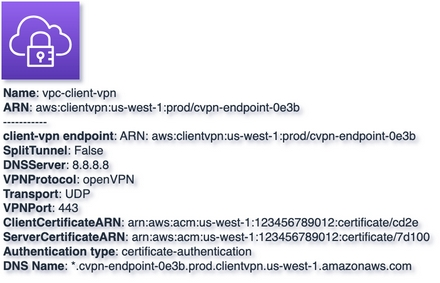
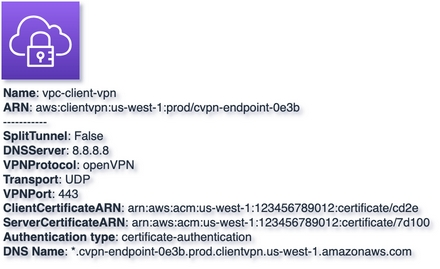
refactor: updated client vpn

Changed region(s): [[0.0, 0.0297, 0.975, 0.9814]]

diff --git a/tests/aws/test_client_vpn.py b/tests/aws/test_client_vpn.py
@@ -15,7 +15,6 @@ class TestAWSVertexInIsolation(TestRendering):
         vpn_arn = 'aws:clientvpn:us-west-1:prod/cvpn-endpoint-0e3b'
         vpn_name = 'vpc-client-vpn'
         metadata = {
-            'client-vpn endpoint': 'ARN: aws:clientvpn:us-west-1:prod/cvpn-endpoint-0e3b',
             'SplitTunnel': False,
             'DNSServer': '8.8.8.8',
             'VPNProtocol': 'openVPN',
@@ -33,9 +32,7 @@ class TestAWSVertexInIsolation(TestRendering):
                     'parent': '1',
                     'style': 'sketch=0;outlineConnect=0;fontColor=#232F3E;gradientColor=#945DF2;gradientDirection=north;fillColor=#5A30B5;strokeColor=#ffffff;dashed=0;verticalLabelPosition=bottom;verticalAlign=top;align=left;html=1;fontSize=12;fontStyle=0;aspect=fixed;shape=mxgraph.aws4.resourceIcon;resIcon=mxgraph.aws4.client_vpn;',
                     'value': '<b>Name</b>: vpc-client-vpn<BR><b>ARN</b>: '
-                             'aws:clientvpn:us-west-1:prod/cvpn-endpoint-0e3b<BR>-----------<BR><b>client-vpn '
-                             'endpoint</b>: ARN: '
-                             'aws:clientvpn:us-west-1:prod/cvpn-endpoint-0e3b<BR><b>SplitTunnel</b>: '
+                             'aws:clientvpn:us-west-1:prod/cvpn-endpoint-0e3b<BR>-----------<BR><b>SplitTunnel</b>: '
                              'False<BR><b>DNSServer</b>: 8.8.8.8<BR><b>VPNProtocol</b>: '
                              'openVPN<BR><b>Transport</b>: UDP<BR><b>VPNPort</b>: '
                              '443<BR><b>ClientCertificateARN</b>: '

diff --git a/docs/docs/aws-components/client_vpn.md b/docs/docs/aws-components/client_vpn.md
@@ -84,7 +84,7 @@ style="sketch=0;outlineConnect=0;fontColor=#232F3E;gradientColor=#945DF2;gradien
             <root>
                 <mxCell id="0"/>
                 <mxCell id="1" parent="0"/>
-                <mxCell id="vertex:client_vpn:aws:clientvpn:us-west-1:prod/cvpn-endpoint-0e3b" value="&lt;b&gt;Name&lt;/b&gt;: vpc-client-vpn&lt;BR&gt;&lt;b&gt;ARN&lt;/b&gt;: aws:clientvpn:us-west-1:prod/cvpn-endpoint-0e3b&lt;BR&gt;-----------&lt;BR&gt;&lt;b&gt;client-vpn endpoint&lt;/b&gt;: ARN: aws:clientvpn:us-west-1:prod/cvpn-endpoint-0e3b&lt;BR&gt;&lt;b&gt;SplitTunnel&lt;/b&gt;: False&lt;BR&gt;&lt;b&gt;DNSServer&lt;/b&gt;: 8.8.8.8&lt;BR&gt;&lt;b&gt;VPNProtocol&lt;/b&gt;: openVPN&lt;BR&gt;&lt;b&gt;Transport&lt;/b&gt;: UDP&lt;BR&gt;&lt;b&gt;VPNPort&lt;/b&gt;: 443&lt;BR&gt;&lt;b&gt;ClientCertificateARN&lt;/b&gt;: arn:aws:acm:us-west-1:123456789012:certificate/cd2e&lt;BR&gt;&lt;b&gt;ServerCertificateARN&lt;/b&gt;: arn:aws:acm:us-west-1:123456789012:certificate/7d100&lt;BR&gt;&lt;b&gt;Authentication type&lt;/b&gt;: certificate-authentication&lt;BR&gt;&lt;b&gt;DNS Name&lt;/b&gt;: *.cvpn-endpoint-0e3b.prod.clientvpn.us-west-1.amazonaws.com" style="sketch=0;outlineConnect=0;fontColor=#232F3E;gradientColor=#945DF2;gradientDirection=north;fillColor=#5A30B5;strokeColor=#ffffff;dashed=0;verticalLabelPosition=bottom;verticalAlign=top;align=left;html=1;fontSize=12;fontStyle=0;aspect=fixed;shape=mxgraph.aws4.resourceIcon;resIcon=mxgraph.aws4.client_vpn;" parent="1" vertex="1">
+                <mxCell id="vertex:client_vpn:aws:clientvpn:us-west-1:prod/cvpn-endpoint-0e3b" value="&lt;b&gt;Name&lt;/b&gt;: vpc-client-vpn&lt;BR&gt;&lt;b&gt;ARN&lt;/b&gt;: aws:clientvpn:us-west-1:prod/cvpn-endpoint-0e3b&lt;BR&gt;-----------&lt;BR&gt;&lt;b&gt;SplitTunnel&lt;/b&gt;: False&lt;BR&gt;&lt;b&gt;DNSServer&lt;/b&gt;: 8.8.8.8&lt;BR&gt;&lt;b&gt;VPNProtocol&lt;/b&gt;: openVPN&lt;BR&gt;&lt;b&gt;Transport&lt;/b&gt;: UDP&lt;BR&gt;&lt;b&gt;VPNPort&lt;/b&gt;: 443&lt;BR&gt;&lt;b&gt;ClientCertificateARN&lt;/b&gt;: arn:aws:acm:us-west-1:123456789012:certificate/cd2e&lt;BR&gt;&lt;b&gt;ServerCertificateARN&lt;/b&gt;: arn:aws:acm:us-west-1:123456789012:certificate/7d100&lt;BR&gt;&lt;b&gt;Authentication type&lt;/b&gt;: certificate-authentication&lt;BR&gt;&lt;b&gt;DNS Name&lt;/b&gt;: *.cvpn-endpoint-0e3b.prod.clientvpn.us-west-1.amazonaws.com" style="sketch=0;outlineConnect=0;fontColor=#232F3E;gradientColor=#945DF2;gradientDirection=north;fillColor=#5A30B5;strokeColor=#ffffff;dashed=0;verticalLabelPosition=bottom;verticalAlign=top;align=left;html=1;fontSize=12;fontStyle=0;aspect=fixed;shape=mxgraph.aws4.resourceIcon;resIcon=mxgraph.aws4.client_vpn;" parent="1" vertex="1">
                     <mxGeometry width="78" height="78" as="geometry"/>
                 </mxCell>
             </root>
